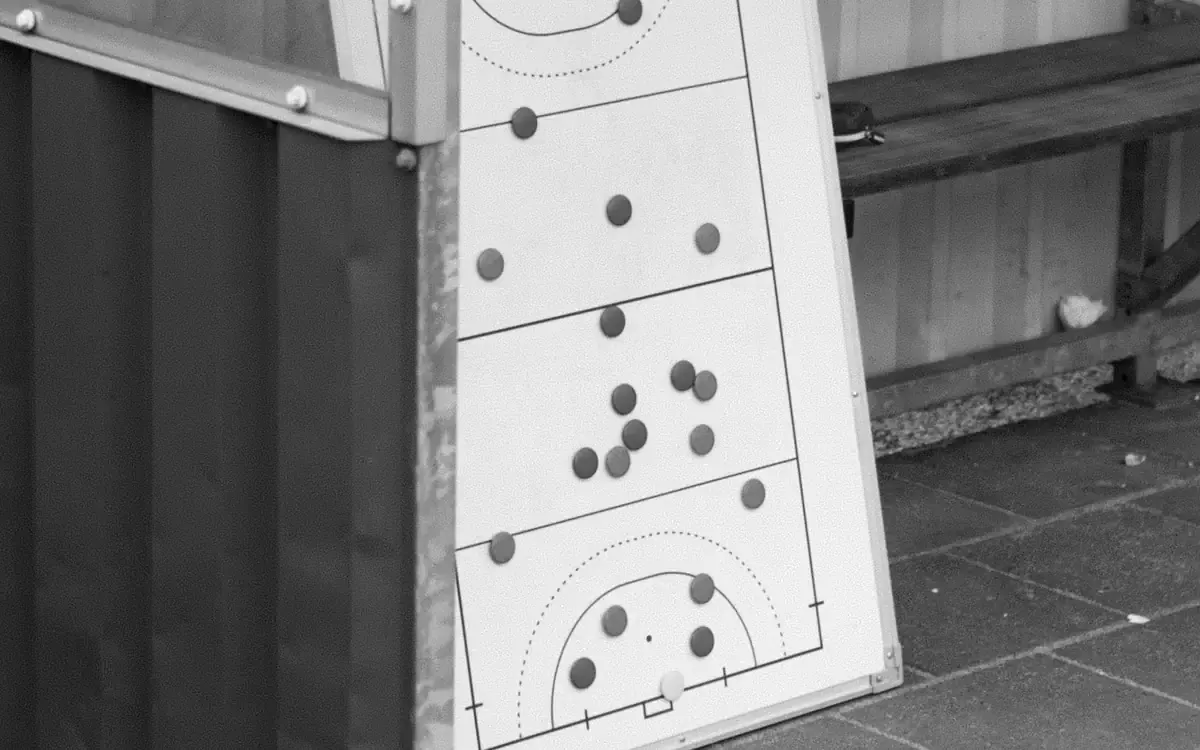
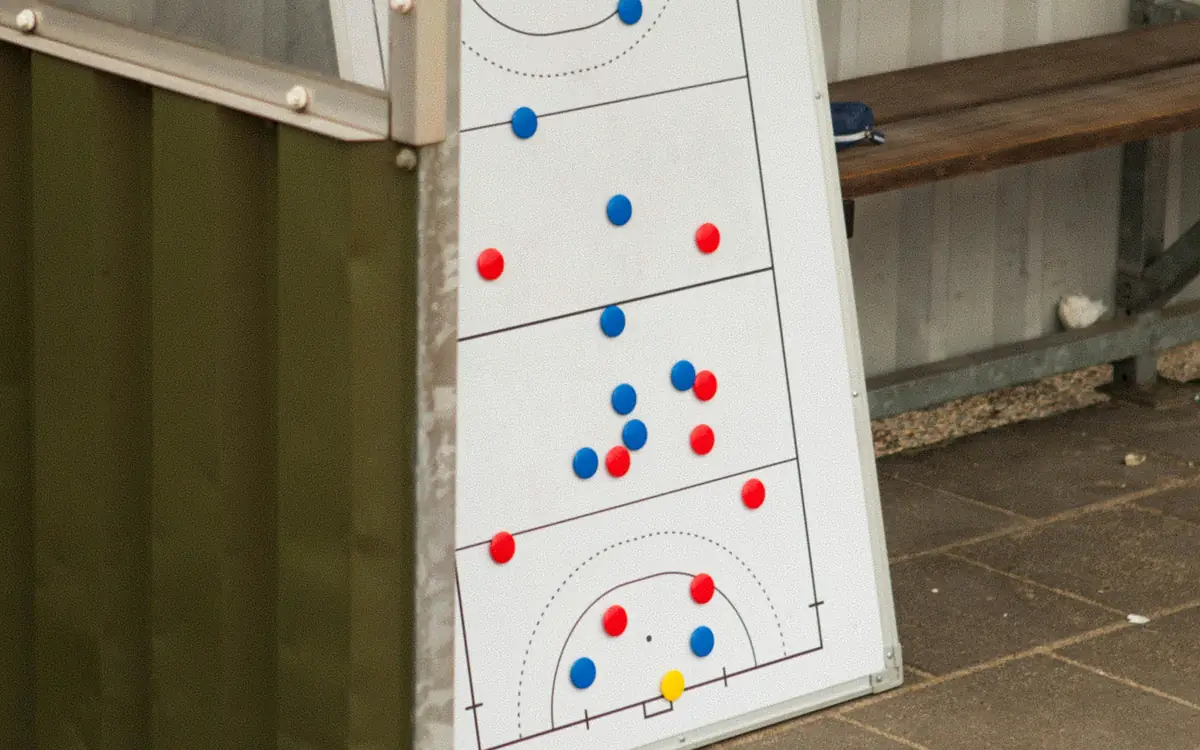
feat(photos): the calendar's cones and the whiteboard in colour again
No face on either, so colour, like the goal net and the training sheet. The trophy squad, which
shows faces, stays black and white. The files are the same crops as before WEBSITE 19, in colour;
photos.ts, the credits and DESIGN.md follow.

diff --git a/src/config/photos.ts b/src/config/photos.ts
@@ -1,8 +1,8 @@
 /**
  * Every photograph on the site: whether a face is visible, and its tone. The rule (WEBSITE 17): a
- * photo with a visible face is black and white. A photo with no face has the tone given here: on
- * the "What you get" cards most are black and white (WEBSITE 19), the goal net and the training
- * sheet in colour (WEBSITE 20). tests/unit/photos.test.ts
+ * photo with a visible face is black and white. A photo with no face has the tone given here: the
+ * "What you get" cards they are in colour (WEBSITE 22), the trophy squad, which shows faces, in black
+ * and white. tests/unit/photos.test.ts
  * checks each file against this list; credits are in docs/PHOTO-CREDITS.md. App screens are not
  * photos (src/config/app-shots.ts): they stay as the app shows them.
  */
@@ -24,14 +24,19 @@ export const photos: Photo[] = [
     tone: 'grey',
     what: 'a squad lifting a trophy, every mark blurred',
   },
-  // The feature cards: black and white, but for the goal net and the training sheet
+  // The feature cards: no face, so colour
   {
     file: 'public/features/calendar.webp',
     faces: false,
-    tone: 'grey',
+    tone: 'colour',
     what: 'legs and boots at a cone',
   },
-  { file: 'public/features/whiteboard.webp', faces: false, tone: 'grey', what: 'a tactics board' },
+  {
+    file: 'public/features/whiteboard.webp',
+    faces: false,
+    tone: 'colour',
+    what: 'a tactics board',
+  },
   { file: 'public/features/matchRequests.webp', faces: false, tone: 'colour', what: 'a goal net' },
   {
     file: 'public/features/assistant.webp',

diff --git a/docs/PHOTO-CREDITS.md b/docs/PHOTO-CREDITS.md
@@ -20,8 +20,8 @@ photo's page.
 | `public/community/coach-6.jpg`       | Arthur Debons                      | https://unsplash.com/photos/Mrql2Og2GU8 | Square on the face, 640 px, black and white                                                                                                                                                               |
 | `public/community/coach-7.jpg`       | Christian Buehner                  | https://unsplash.com/photos/5YpZpFy8zzU | Square on the face, 640 px, black and white                                                                                                                                                               |
 | `public/community/coach-8.jpg`       | Lucas Clarysse                     | https://unsplash.com/photos/yMxLAdXh8Wc | Square on the face, 640 px, black and white                                                                                                                                                               |
-| `public/features/whiteboard.webp`    | Jasper Benning                     | https://unsplash.com/photos/Ri4FXmD7DPM | 16:10, board only, 1200 px, black and white                                                                                                                                                               |
-| `public/features/calendar.webp`      | Alliance Football Club             | https://unsplash.com/photos/g8cK31aYH3E | 16:10, below the shorts (their club name) and away from the child: legs, boots, a cone, 1200 px, black and white                                                                                          |
+| `public/features/whiteboard.webp`    | Jasper Benning                     | https://unsplash.com/photos/Ri4FXmD7DPM | 16:10, board only, 1200 px, colour                                                                                                                                                                        |
+| `public/features/calendar.webp`      | Alliance Football Club             | https://unsplash.com/photos/g8cK31aYH3E | 16:10, below the shorts (their club name) and away from the child: legs, boots, a cone, 1200 px, colour                                                                                                   |
 | `public/community/players.webp`      | Photo by Danylo Suprun on Unsplash | 5CBdeiqh4mI                             | 4:3, the lower half, 960 px, colour                                                                                                                                                                       |
 | `public/footer/pitch.webp`           | Photo by Omar Ramadan on Unsplash  | htGM-eEzsdk                             | the turf band only (no faces), 1600 px, colour                                                                                                                                                            |
 | `public/features/matchRequests.webp` | Jerome                             | https://unsplash.com/photos/nDHp2Z4rCHw | 16:10, the net against the sky, 1200 px, colour (the Match requests card)                                                                                                                                 |
@@ -30,8 +30,8 @@ photo's page.
 
 The colour rule (WEBSITE 17, WEBSITE 19): a photo where a face is visible is black and white, in
 the file itself. A photo with no visible face (from behind, legs, boots, the ball, turf, cones, a
-goal, a net, equipment) has its own tone: in colour, except on the "What you get" cards, where most
-are black and white (WEBSITE 19) and the goal net and the training sheet are in colour (WEBSITE 20). `src/config/photos.ts` lists every photo with
+goal, a net, equipment) is in colour, on the "What you get" cards too (WEBSITE 22: the calendar's
+cones and the whiteboard back in colour; WEBSITE 19 had made them black and white). `src/config/photos.ts` lists every photo with
 `faces` and `tone` (`grey` or `colour`), and `tests/unit/photos.test.ts` checks each file against
 it. App screens are not photos and stay as the app shows them. Every file is under 120 KB and
 loads lazily. The app's own screens are listed under "App screens (WEBSITE 18)" below. The

diff --git a/DESIGN.md b/DESIGN.md
@@ -389,8 +389,8 @@ screen readers.
   left.
 - Show real app screens and real, licensed photographs, credited in `docs/PHOTO-CREDITS.md`.
 - Photos with a visible face are black and white; photos with no face (from behind, legs, the
-  ball, turf, cones, a goal, equipment) keep their own tone: on the feature cards most are black and
-  white, the goal net and the training sheet in colour (`src/config/photos.ts`, `faces` and `tone`, checked by
+  ball, turf, cones, a goal, equipment) are in colour, on the feature cards too; there the trophy
+  squad, which shows faces, is the one in black and white (`src/config/photos.ts`, `faces` and `tone`, checked by
   `tests/unit/photos.test.ts`); app screens stay as the app shows them, with an "Example" tag
   where they show sample data. Any mark on a stock photo (a club's or a tournament's name, a
   sponsor, a league patch) goes under a soft round blur; makers' logos on boots and balls stay.
